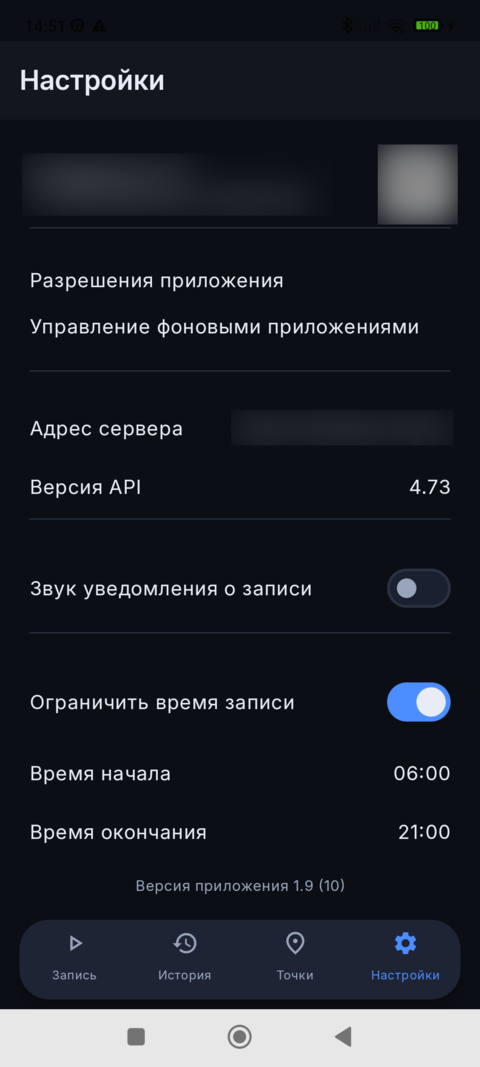
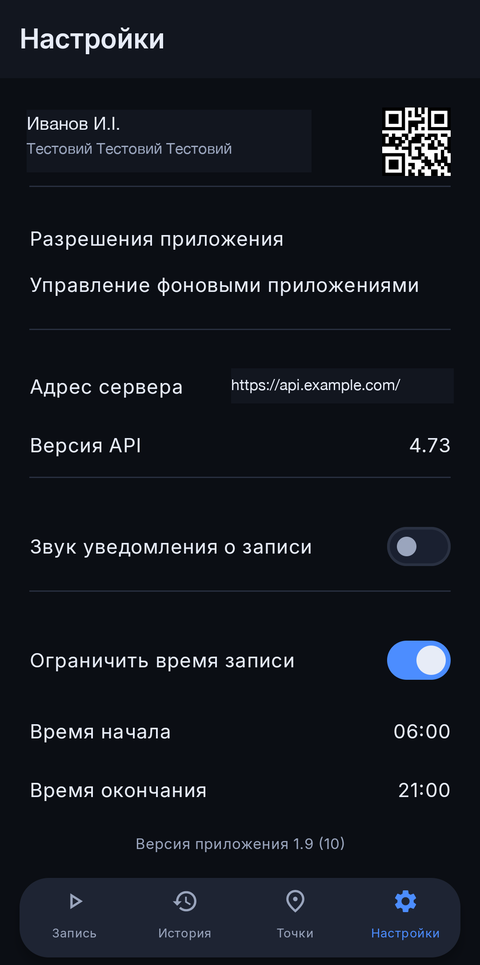
Replace blurred screenshots with cleaner cropped mockups
Real-data screenshots redacted with heavy blur looked bad (large gray
blur blocks) and the full device-height crops looked awkwardly tall
and empty toward the bottom (a big blank gap before the nav bar) once
scaled down for the guide.

Fixes:
- Crop out the OS status bar and gesture-nav bar, and trim the point
  list crops to just 2-3 cards instead of the whole screen, so images
  read as normal phone screenshots instead of stretched columns.
- Replace redacted regions (point names/addresses, agent identity, QR
  code, server address, GPS coordinates) with clean fictional sample
  data drawn in place, instead of blurring the real values.
- Update figcaptions to say "sample data" instead of "blurred".

Claude-Session: https://claude.ai/code/session_01CK6fHanGHhqZqrWdjuDz1z

diff --git a/guide.html b/guide.html
@@ -125,11 +125,11 @@
 
     <div class="screenshot-row">
       <figure class="screenshot">
-        <img src="assets/img/screens/settings.png" alt="Settings screen with identity card and QR code" loading="lazy" width="480" height="1067">
+        <img src="assets/img/screens/settings.png" alt="Settings screen with identity card and QR code" loading="lazy" width="480" height="965">
         <figcaption>
-          <span data-lang-block="en">Settings — identity card, QR code and server address (blurred for privacy)</span>
-          <span data-lang-block="ru">Настройки — карточка профиля, QR-код и адрес сервера (размыты в целях приватности)</span>
-          <span data-lang-block="uk">Налаштування — картка профілю, QR-код і адреса сервера (розмито заради приватності)</span>
+          <span data-lang-block="en">Settings — identity card, QR code and server address (sample data shown)</span>
+          <span data-lang-block="ru">Настройки — карточка профиля, QR-код и адрес сервера (показаны демонстрационные данные)</span>
+          <span data-lang-block="uk">Налаштування — картка профілю, QR-код і адреса сервера (показано демонстраційні дані)</span>
         </figcaption>
       </figure>
     </div>
@@ -167,7 +167,7 @@
 
     <div class="screenshot-row">
       <figure class="screenshot">
-        <img src="assets/img/screens/record.png" alt="Record screen with the start recording button" loading="lazy" width="480" height="1067">
+        <img src="assets/img/screens/record.png" alt="Record screen with the start recording button" loading="lazy" width="480" height="965">
         <figcaption>
           <span data-lang-block="en">Record tab, before starting</span>
           <span data-lang-block="ru">Вкладка Запись до начала записи</span>
@@ -188,7 +188,7 @@
 
     <div class="screenshot-row">
       <figure class="screenshot">
-        <img src="assets/img/screens/history-recordings.png" alt="History screen, Recordings tab" loading="lazy" width="480" height="1067">
+        <img src="assets/img/screens/history-recordings.png" alt="History screen, Recordings tab" loading="lazy" width="480" height="965">
         <figcaption>
           <span data-lang-block="en">Recordings tab</span>
           <span data-lang-block="ru">Вкладка «Записи»</span>
@@ -196,7 +196,7 @@
         </figcaption>
       </figure>
       <figure class="screenshot">
-        <img src="assets/img/screens/history-routes.png" alt="History screen, Routes tab" loading="lazy" width="480" height="1067">
+        <img src="assets/img/screens/history-routes.png" alt="History screen, Routes tab" loading="lazy" width="480" height="965">
         <figcaption>
           <span data-lang-block="en">Routes tab</span>
           <span data-lang-block="ru">Вкладка «Маршруты»</span>
@@ -267,11 +267,11 @@
 
     <div class="screenshot-row">
       <figure class="screenshot">
-        <img src="assets/img/screens/track-detail.png" alt="Track Details screen with map and point table" loading="lazy" width="480" height="1067">
+        <img src="assets/img/screens/track-detail.png" alt="Track Details screen with map and point table" loading="lazy" width="480" height="965">
         <figcaption>
-          <span data-lang-block="en">Track Details — map and coordinates are blurred here for privacy</span>
-          <span data-lang-block="ru">Детали трека — карта и координаты размыты здесь в целях приватности</span>
-          <span data-lang-block="uk">Деталі треку — карту та координати тут розмито заради приватності</span>
+          <span data-lang-block="en">Track Details — map is blurred and coordinates replaced with sample values for privacy</span>
+          <span data-lang-block="ru">Детали трека — карта размыта, а координаты заменены на демонстрационные значения</span>
+          <span data-lang-block="uk">Деталі треку — карту розмито, а координати замінено на демонстраційні значення</span>
         </figcaption>
       </figure>
     </div>
@@ -288,11 +288,11 @@
 
     <div class="screenshot-row">
       <figure class="screenshot">
-        <img src="assets/img/screens/points-list.png" alt="Delivery Points list with status badges" loading="lazy" width="480" height="1067">
+        <img src="assets/img/screens/points-list.png" alt="Delivery Points list with status badges" loading="lazy" width="480" height="548">
         <figcaption>
-          <span data-lang-block="en">Points list — names and addresses are blurred here for privacy</span>
-          <span data-lang-block="ru">Список точек — названия и адреса размыты здесь в целях приватности</span>
-          <span data-lang-block="uk">Список точок — назви та адреси тут розмито заради приватності</span>
+          <span data-lang-block="en">Points list — names and addresses are sample data</span>
+          <span data-lang-block="ru">Список точек — названия и адреса демонстрационные</span>
+          <span data-lang-block="uk">Список точок — назви та адреси демонстраційні</span>
         </figcaption>
       </figure>
     </div>
@@ -316,7 +316,7 @@
 
     <div class="screenshot-row">
       <figure class="screenshot">
-        <img src="assets/img/screens/points-filters.png" alt="Points filter bottom sheet" loading="lazy" width="480" height="1067">
+        <img src="assets/img/screens/points-filters.png" alt="Points filter bottom sheet" loading="lazy" width="480" height="965">
         <figcaption>
           <span data-lang-block="en">Filters bottom sheet</span>
           <span data-lang-block="ru">Лист фильтров</span>
@@ -358,11 +358,11 @@
 
     <div class="screenshot-row">
       <figure class="screenshot">
-        <img src="assets/img/screens/points-swipe.png" alt="Point card swiped to reveal Map, Position and Check-in actions" loading="lazy" width="480" height="1067">
+        <img src="assets/img/screens/points-swipe.png" alt="Point card swiped to reveal Map, Position and Check-in actions" loading="lazy" width="480" height="710">
         <figcaption>
-          <span data-lang-block="en">Swipe actions — Map, Clarify, Check-in (names blurred for privacy)</span>
-          <span data-lang-block="ru">Свайп-действия — Карта, Позиция, Регистрация (названия размыты в целях приватности)</span>
-          <span data-lang-block="uk">Свайп-дії — Карта, Позиція, Реєстрація (назви розмито заради приватності)</span>
+          <span data-lang-block="en">Swipe actions — Map, Clarify, Check-in</span>
+          <span data-lang-block="ru">Свайп-действия — Карта, Позиция, Регистрация</span>
+          <span data-lang-block="uk">Свайп-дії — Карта, Позиція, Реєстрація</span>
         </figcaption>
       </figure>
     </div>
